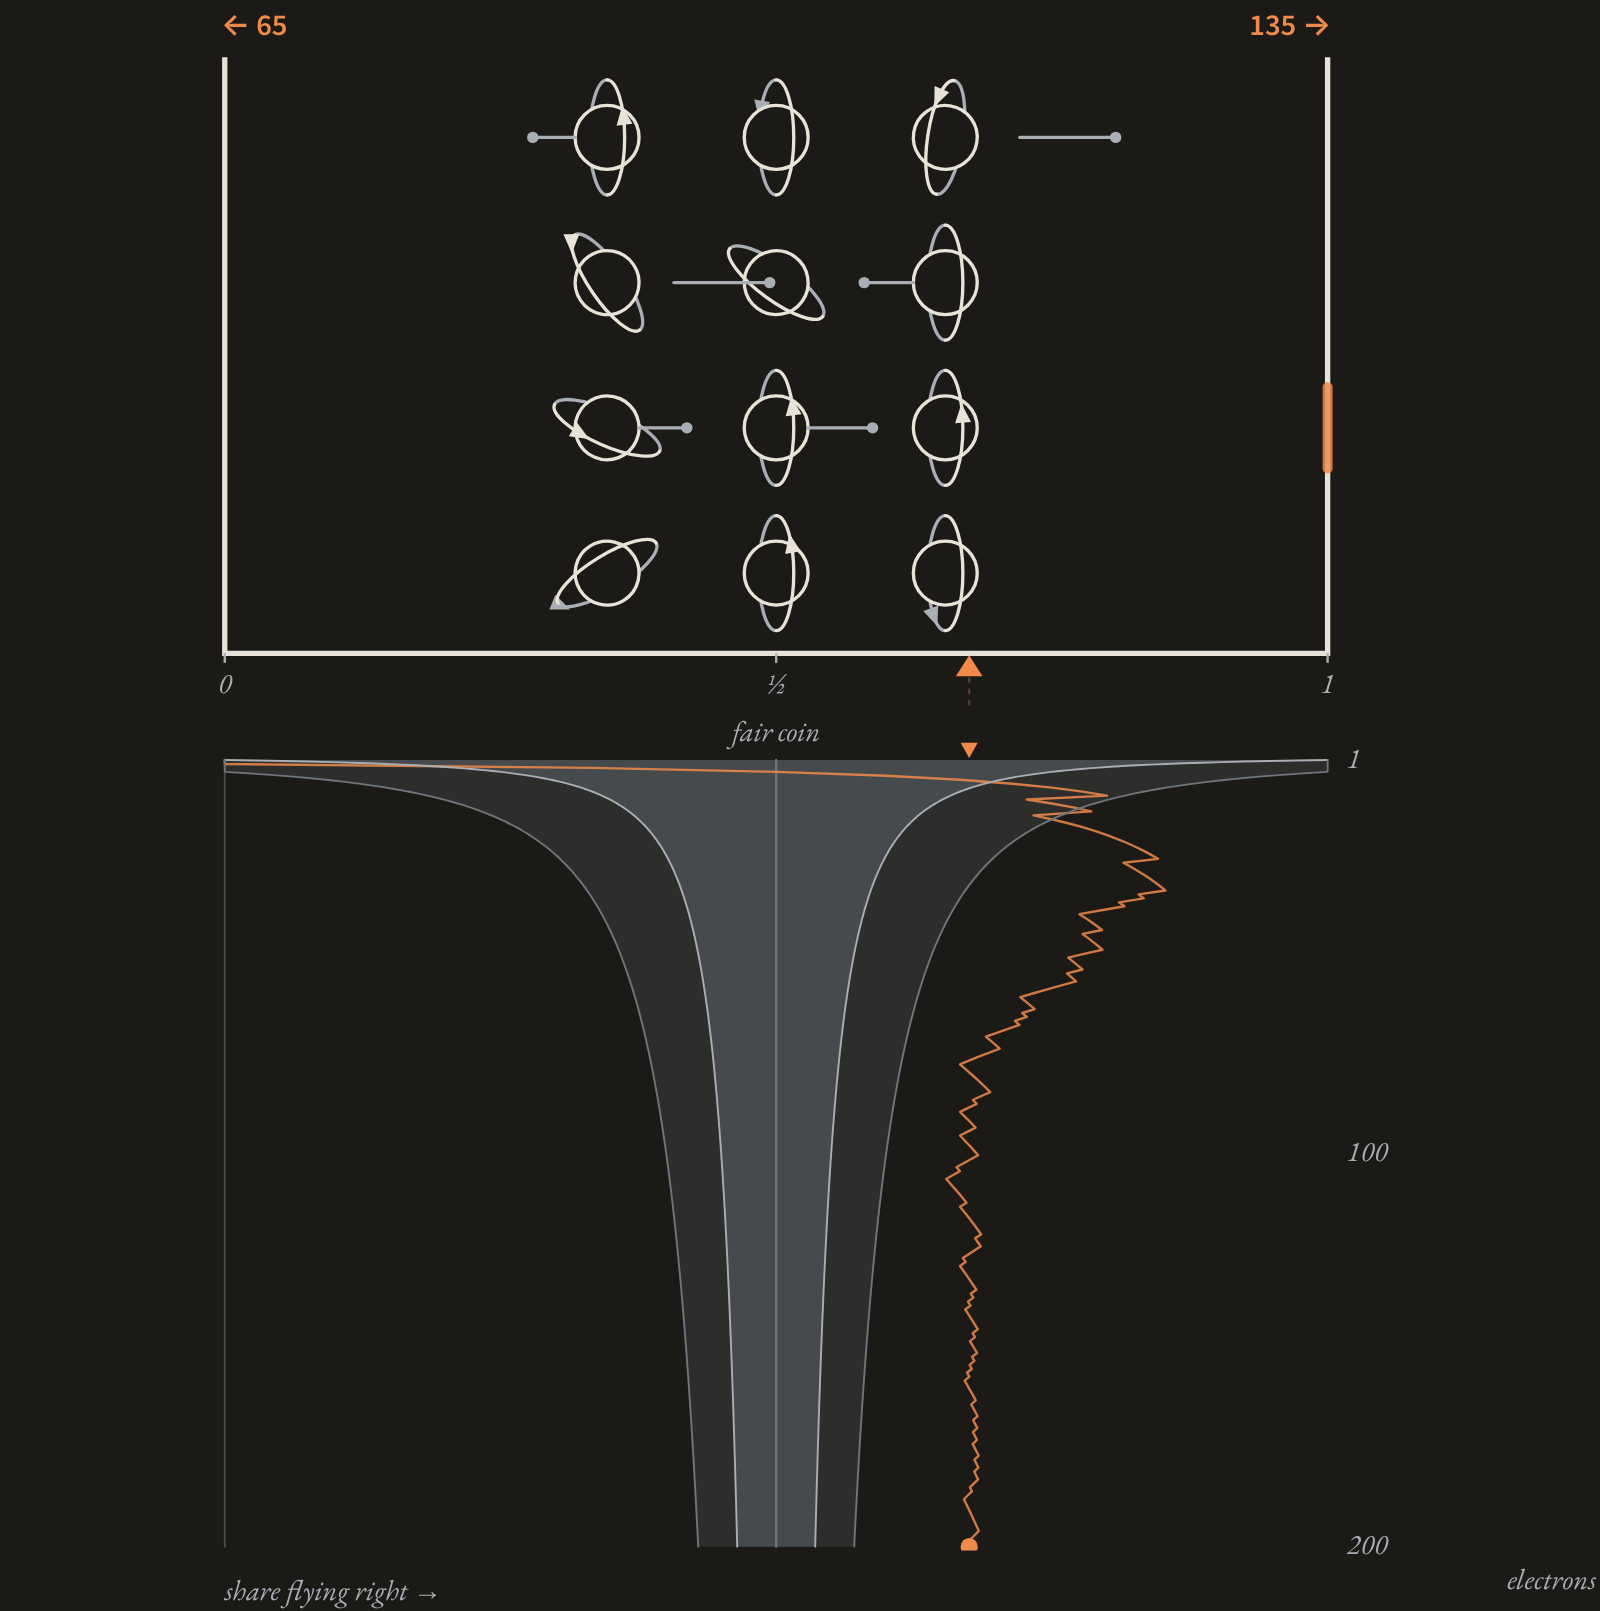
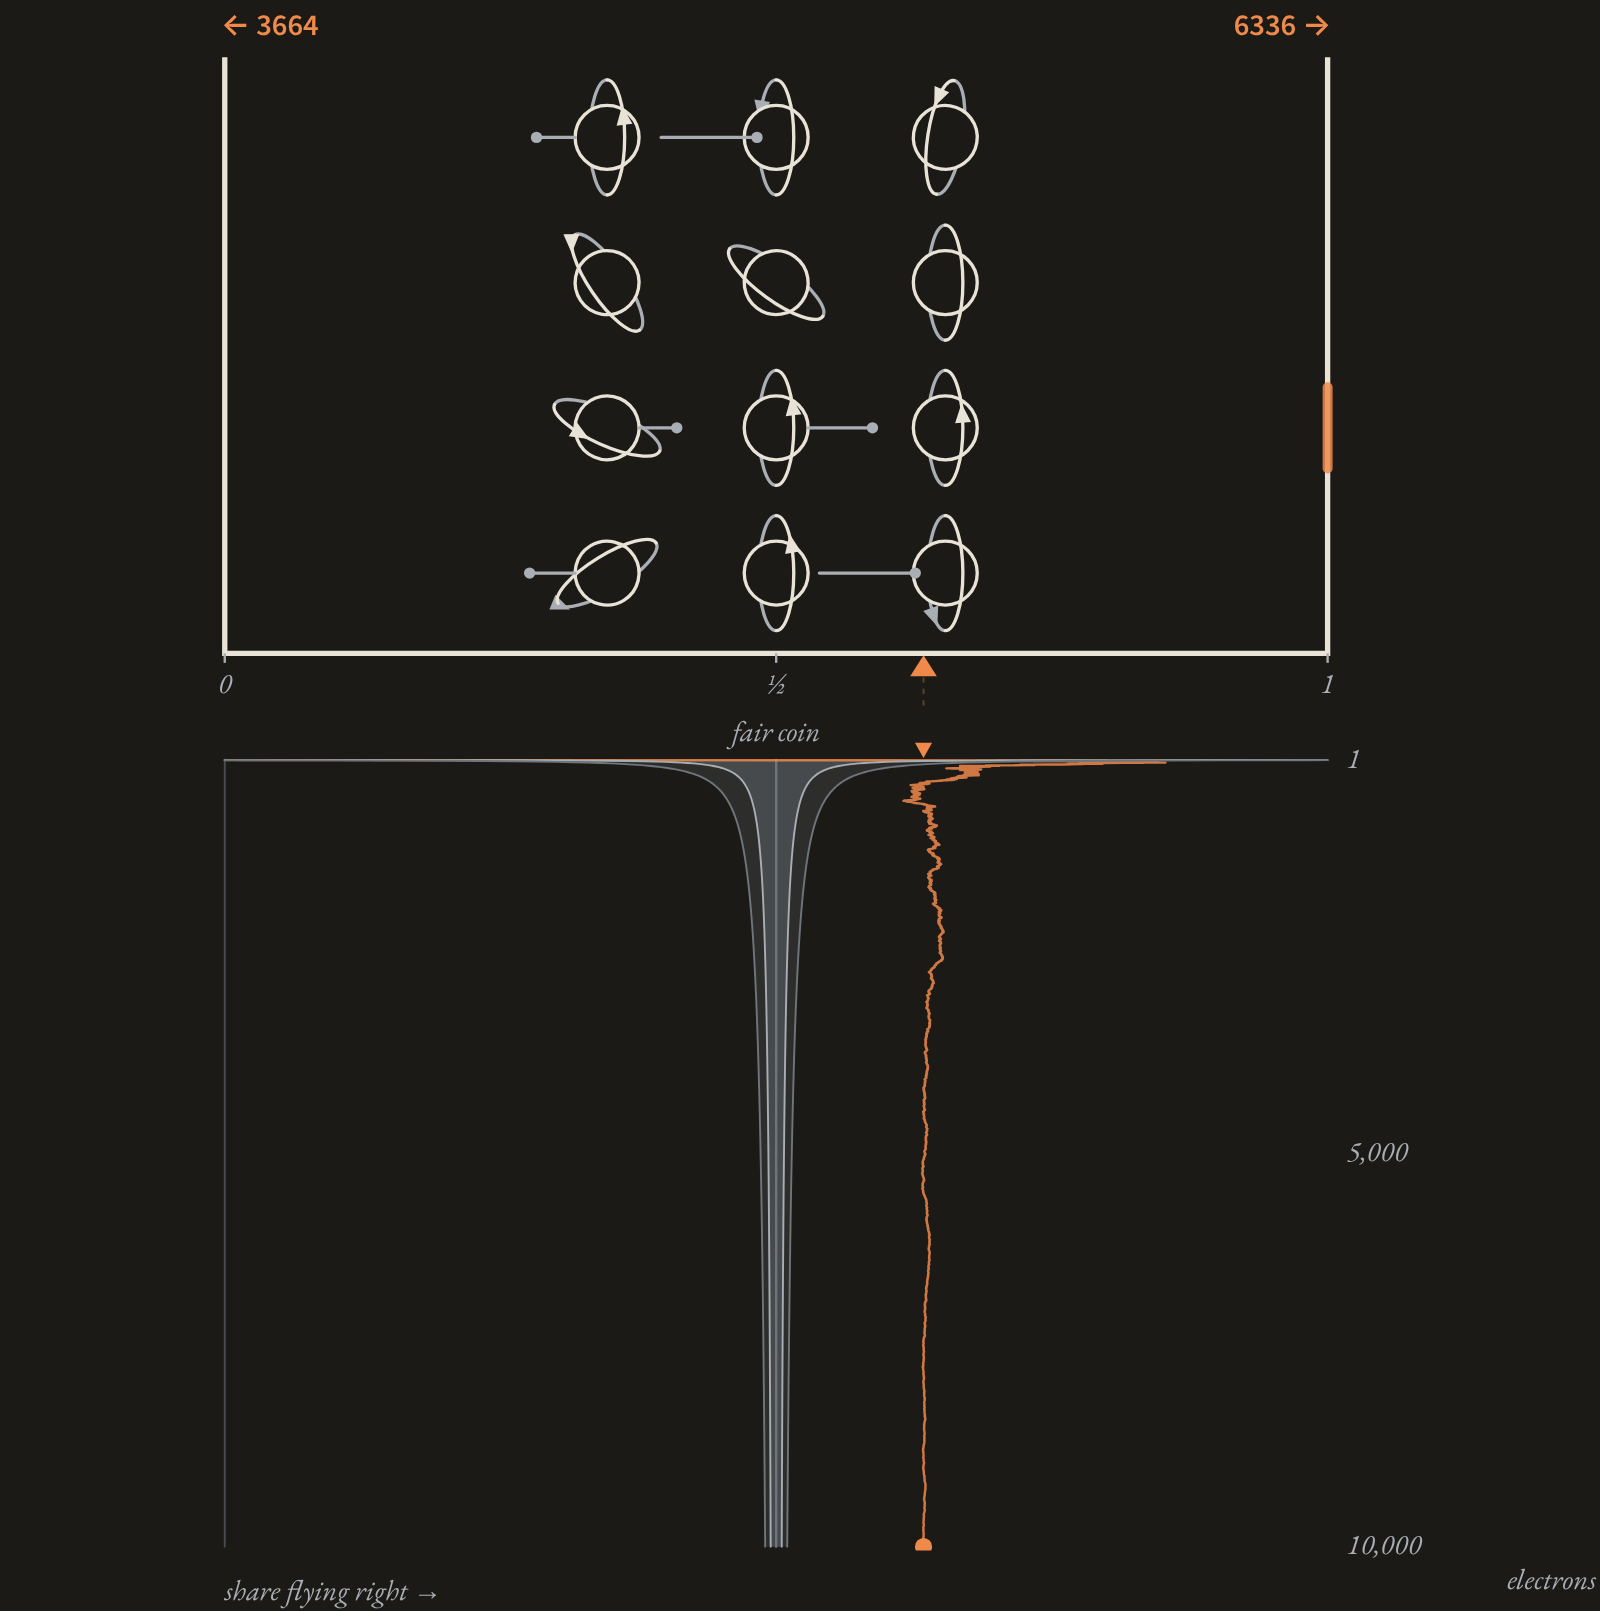
Wu's cobalt, round 4: 10,000 electrons per Run; failed runs as the control; §8 prose
Dan, 2026-11-25. Run counts 10,000 in ~8 s (a few drawn), so a lined-up run
ends far outside the fair coin's bands; warm or jumbled runs stay inside, and
the status says why (Wu: the asymmetry faded as the crystal warmed). Run waits
for the magnet; a drag on the slider takes over mid warm-up (before, it was
ignored, and the reader could run a warm crystal without knowing).
§8 prose (Dan allowed edits): the top seen from 'one end / the other end' and a
mirror parallel to its axis; a margin note on how hard the experiment was;
'Days later' -> 'At the same time' (both papers 15 Feb 1957); the field
reversal; Nobel note 'just over a year'; closing line leads into §9.

Claude-Session: https://claude.ai/code/session_01KXhEcQAuKZgS7s6hqtfv8y

diff --git a/widgets/wu-cobalt/wu-cobalt.js b/widgets/wu-cobalt/wu-cobalt.js
@@ -23,12 +23,13 @@ const FLASH = 0.3;       // s: a plate's flash
 const PULSE = 0.45;      // s: a pulse's trip from the plate to the pointer
 const SPIN = 2.2;        // rad/s: how fast the arrowheads ride round the rings
 const SAY_EVERY = 3;     // s: how often screen readers hear the counts
-const ZOOM = [10, 50, 200];
+const ZOOM = [10, 100, 1000, 10000];
+const POINTS = 600;      // the record keeps every count up to this, then thins to about this many points
 const KEEP = 3;          // earlier records kept, faint
 
 class WuCobalt extends ULWidget {
   // status messages (at most 80 characters each; tests/widgets/strings.test.mjs)
-  static status = ['start', 'warm', 'cooler', 'quick', 'lining', 'tap', 'keep', 'running', 'lean', 'reversed', 'crossed', 'runN', 'even', 'warming'];
+  static status = ['start', 'warm', 'cooler', 'quick', 'lining', 'wait', 'tap', 'keep', 'running', 'lean', 'reversed', 'crossed', 'runN', 'even', 'warmRun', 'cut', 'warming'];
   static buttons = ['magnet', 'reverse', 'run', 'reset'];
   static strings = { en: {
     invite: 'Cool the crystal. Line up the nuclei. Catch the electrons.',
@@ -42,12 +43,15 @@ class WuCobalt extends ULWidget {
     lining: 'The magnet pulls, and the nuclei swing round…',
     tap: 'Most of the nuclei now spin the same way. Catch electrons, or press Run.',
     keep: 'Each catch lights a plate and nudges the pointer. Keep going, or Run.',
-    running: 'The detector counts every electron. Each hit nudges the pointer.',
+    running: 'The detector counts thousands of electrons; only a few are drawn.',
     lean: 'More fly away from the spin than a fair coin allows.',
     reversed: 'Magnet reversed: the spins turn round. Which way will the lean go now?',
     crossed: 'The lean crossed over with the spins: away from the spin, as before.',
     runN: 'A new run, the same shape. Each decay is random; the lean is lawful.',
     even: 'Inside the fair-coin range: nothing picks out an end.',
+    warmRun: 'Warm: the nuclei point every which way, and it comes out like a fair coin.',
+    wait: 'Wait for the magnet: the nuclei are still swinging round.',
+    cut: 'The cold ran out mid-run. Cool it again, and run again.',
     warming: 'Warming up. The nuclei scatter. Cool it again to keep counting.',
     magnet: 'Magnet', reverse: 'Reverse', run: 'Run', reset: 'Reset',
     temp: 'Temperature', cold: '{s} s of cold', counts: 'Left {left}, right {right}.',
@@ -61,7 +65,7 @@ class WuCobalt extends ULWidget {
     this.top = createStage(frag, { aspect: '9 / 4', phoneAspect: '3 / 2', label: `${this.t('label')} ${this.t('keys')}`, focusable: true });
     this.bottom = createStage(frag, { aspect: '16 / 9', phoneAspect: '16 / 10', label: '' });
     this.temp = slider({ label: this.t('temp'), min: 0, max: 100, step: 1, value: 0, format: (v) => fmtK(tempAt(v)),
-      onInput: (v) => { if (!this.warming) { this.T = tempAt(v); this.go(); } } });
+      onInput: (v) => { this.warming = false; this.coldFor = 0; this.T = tempAt(v); this.go(); } });   // the reader's drag takes over, even mid warm-up
     this.tempInput = this.temp.querySelector('input'); this.tempOut = this.temp.querySelector('output');
     this.status = new StatusLine({ gap: 0, hold: 0 });
     this.status.reserve(this.constructor.status.map((k) => this.t(k)));
@@ -98,7 +102,7 @@ class WuCobalt extends ULWidget {
     this.wasCold = cold;
     if (cold && !this.warming) {
       this.coldFor += dt;
-      if (this.coldFor >= PARAMS.coldSeconds) { this.warming = true; this.serial++; this.running = false; }
+      if (this.coldFor >= PARAMS.coldSeconds) { this.warming = true; this.serial++; if (this.running) this.rec.cut = true; this.running = false; this.pending = false; }
     }
     if (this.warming) {
       this.T = warmStep(this.T, dt); this.setSlider(sliderFor(this.T));
@@ -114,14 +118,19 @@ class WuCobalt extends ULWidget {
       n.wob = ou(n.wob, jig * 1.6, dt, this.random); n.jx = ou(n.jx, jig, dt, this.random); n.jy = ou(n.jy, jig, dt, this.random);
       n.phase -= SPIN * dt;
     }
-    // electrons: emitted, flown, counted when they reach a plate (if caught, or while running)
-    if (this.random() < dt * (this.running ? PARAMS.detectorRate : PARAMS.handRate)) this.emit();
+    // electrons: drawn ones are emitted and flown; by hand they count when caught and they reach a
+    // plate. During a Run the detector counts thousands; only a few of them are drawn.
+    if (this.random() < dt * (this.running ? PARAMS.drawnRate : PARAMS.handRate)) this.emit();
+    if (this.running && !this.warming) {
+      this.owed += dt * PARAMS.detectorRate;
+      for (; this.owed >= 1 && this.rec.n < PARAMS.runCount; this.owed--) this.countOne(this.electronDir(this.nuclei[Math.floor(this.random() * this.nuclei.length)]));
+    }
     const speed = this.L.sky / (this.running ? PARAMS.flightDetector : PARAMS.flightHand);
     for (const s of this.shots) s.l += dt * speed;
     this.shots = this.shots.filter((s) => {
       const hx = s.x + s.d * s.l, plate = s.d > 0 ? this.L.x1 : this.L.x0;
       if ((hx - plate) * s.d < 0) return true;
-      if ((s.mine || this.running) && !this.warming) this.arrive(s);
+      if (!this.warming && (s.mine || this.running)) this.arrive(s);
       return false;
     });
     // flashes, pops, pulses; the pointer follows the pulses
@@ -130,6 +139,7 @@ class WuCobalt extends ULWidget {
     this.pulses = this.pulses.filter((p) => { p.t += dt; if (p.t >= PULSE) { this.ptrTarget = p.share; return false; } return true; });
     if (this.ptrTarget != null) this.ptr = this.ptr == null ? this.ptrTarget : this.ptr + (this.ptrTarget - this.ptr) * Math.min(1, dt * 8);
     if (this.running && this.rec.n >= PARAMS.runCount) this.running = false;
+    if (this.pending && this.aligned) this.startRun();
     this.zoom.step(dt);
     if (this.time - this.saidAt > SAY_EVERY && this.rec.n !== this.saidN) this.speakCounts();
     this.say(); this.draw();
@@ -138,7 +148,7 @@ class WuCobalt extends ULWidget {
   // ----- actions
   reset() {
     this.T = tempAt(0); this.time = 0; this.coldFor = 0; this.warming = false; this.wasCold = false;
-    this.align = 0; this.serial = 0; this.field = 0; this.running = false;
+    this.align = 0; this.serial = 0; this.field = 0; this.running = false; this.owed = 0; this.pending = false;
     this.shots = []; this.pops = []; this.flashes = []; this.pulses = [];
     this.old = []; this.leans = []; this.rec = null; this.rec = this.newRecord(null); this.ptr = null; this.ptrTarget = null;
     this.saidAt = 0; this.saidN = 0; this.bandAt = null; this.reversedAt = null;
@@ -158,7 +168,10 @@ class WuCobalt extends ULWidget {
     else { this.field = -this.field; this.reversedAt = this.time; }
     this.go();
   }
-  startRun() { this.running = true; this.rec = this.newRecord(this.setup()); this.go(); }
+  startRun() {
+    if (isCold(this.T) && this.field !== 0 && !this.aligned && !this.warming) { this.pending = true; return this.go(); }   // wait for the magnet
+    this.pending = false; this.running = true; this.owed = 0; this.rec = this.newRecord(this.setup()); this.rec.run = true; this.go();
+  }
   go() { this.play(); this.say(); this.draw(); }
   setSlider(v) {   // move the slider without it calling back (the crystal warming by itself)
     this.tempInput.value = String(v);
@@ -174,22 +187,31 @@ class WuCobalt extends ULWidget {
     return { key, left: 0, right: 0, n: 0, data: [], leaned: false, field: this.aligned ? this.field : 0 };
   }
 
+  electronDir(n) {   // +1 right, -1 left
+    const lined = linedUp(n.rank, this.align) && this.field !== 0;
+    if (!lined) return this.random() < 0.5 ? 1 : -1;
+    return (this.random() < pAwayOne(true) ? 1 : -1) * awaySide(this.field);
+  }
   emit() {
     const n = this.nuclei[Math.floor(this.random() * this.nuclei.length)], p = this.place(n);
-    const lined = linedUp(n.rank, this.align) && this.field !== 0;
-    const away = this.random() < pAwayOne(lined);
-    const d = lined ? (away ? 1 : -1) * awaySide(this.field) : (this.random() < 0.5 ? 1 : -1);
-    this.shots.push({ x: p.x, y: p.y, d, l: this.L.r * 1.3, mine: false });
+    this.shots.push({ x: p.x, y: p.y, d: this.electronDir(n), l: this.L.r * 1.3, mine: false });
   }
-  arrive(s) {   // an electron reaches a plate and is counted
+  countOne(d) {   // one electron counted at the plate on side d; returns the new share
     const key = this.setup();
     if (key !== this.rec.key) this.rec = this.newRecord(key);
     const rec = this.rec;
-    s.d > 0 ? rec.right++ : rec.left++; rec.n++;
+    d > 0 ? rec.right++ : rec.left++; rec.n++;
     const share = rec.right / rec.n;
-    rec.data.push(rec.n, share); this.zoom.need(rec.n);
+    if (rec.n <= POINTS || rec.n % Math.ceil(rec.n / POINTS) === 0) rec.data.push(rec.n, share);
+    this.zoom.need(rec.n);
+    if (this.running) this.ptrTarget = share;   // the detector: the pointer follows the count
+    return share;
+  }
+  arrive(s) {   // a drawn electron reaches its plate: the plate lights up
     this.flashes.push({ side: s.d, y: s.y, t: 0 });
-    this.pulses.push({ side: s.d, y: s.y, t: 0, share });
+    if (this.running) return;   // a Run's drawn electrons are a sample: already counted
+    const share = this.countOne(s.d);
+    this.pulses.push({ side: s.d, y: s.y, t: 0, share });   // a catch: the pulse carries it to the pointer
   }
   catchIt(s) { s.mine = true; this.pops.push({ x: s.x + s.d * s.l, y: s.y, t: 0 }); this.go(); }
   tap(e) {
@@ -211,7 +233,8 @@ class WuCobalt extends ULWidget {
 
   // ----- words
   standing() {
-    if (this.warming) return 'warming';
+    if (this.warming || (this.rec.cut && this.rec.key !== this.setup() && !isCold(this.T))) return this.rec.cut ? 'cut' : 'warming';
+    if (this.pending) return 'wait';
     const rec = this.rec, mine = rec.key === this.setup(), f = rec.field;
     const v = mine && f ? verdict(f > 0 ? rec.left : rec.right, f > 0 ? rec.right : rec.left) : null;   // field +1: spin points left, so 'away' is right
     if (this.aligned) {
@@ -225,7 +248,7 @@ class WuCobalt extends ULWidget {
     }
     const n = mine ? rec.n : 0, u = n >= PARAMS.minCount ? verdict(rec.left, rec.right) : null;
     if (isCold(this.T) && this.field !== 0) return 'lining';
-    if (u === 'even') return 'even';
+    if (u === 'even') return isCold(this.T) ? 'even' : 'warmRun';
     if (isCold(this.T)) return 'quick';
     if (this.tempInput.value === '0' && !this.running) return 'start';
     return this.T > 1 ? 'warm' : 'cooler';

diff --git a/widgets/engines/cobalt.js b/widgets/engines/cobalt.js
@@ -17,10 +17,11 @@ export const PARAMS = {
   maxAlign: 0.6,       // at most ~60% of the nuclei line up
   LEAN: 0.5,           // illustrative: a lined-up nucleus sends 75% of its electrons down
   handRate: 3.5,       // electrons per second while the reader taps
-  detectorRate: 18,    // electrons per second once the detector counts
+  detectorRate: 1250,  // electrons per second the detector counts during a Run
+  drawnRate: 18,       // of those, electrons per second drawn (the rest are counted, not drawn)
   flightHand: 1.4,     // seconds an electron takes to cross the open sky, while the reader taps
   flightDetector: 0.35,// the same, once the detector counts
-  runCount: 200,       // a Run counts this many electrons (or until the crystal warms)
+  runCount: 10000,     // a Run counts this many electrons, about 8 s (or until the crystal warms): as many as The Lawful Coin's coins
   minCount: 40,        // the widget passes no verdict on fewer electrons than this
   sigmas: 2,           // how far from even counts as "more fly down" (in coin-flip standard deviations)
 };

diff --git a/widgets/wu-cobalt/spec.md b/widgets/wu-cobalt/spec.md
@@ -12,17 +12,19 @@
 - **Temperature** slider, log scale, 300 K → 0.003 K. At 0.003 K a 12-second clock starts ("Quick, we can't stay near absolute zero for long!"). When it runs out, the crystal warms by itself (about 4 s), the nuclei scatter, counting stops, and the reader may cool it again.
 - **Magnet**, then **Reverse** (one button; filled once on). Cold plus magnet: 7 of the 12 nuclei (58%, about Wu's 60%) turn so their spins point left; the rest stay every which way. Reverse: the lined-up spins turn round to point right.
 - **Catch electrons.** Electrons fly left or right out of the nuclei, slowly enough to catch (1.4 s across the open space by hand). Tap one to catch it (orange, with a small ring). Keyboard: Enter or Space catches the electron that has flown furthest. A caught electron that reaches its plate **lights the plate** briefly and sends a **pulse** down the plate and along the scale to the **orange pointer**, which slides to the share flying right. Uncaught electrons pass uncounted.
-- **Run**: a detector counts every electron (18 per second) for 200 electrons or until the crystal warms. Each Run starts a new record; earlier records stay, faint (as in The Lawful Coin).
+- **Run**: a detector counts **10,000 electrons in about 8 s** (as many as The Lawful Coin's coins; Dan, 2026-11-25), or until the crystal warms. Only a few are drawn, flying and lighting the plates (the status says so, as the gas chamber's "400 drawn" does); the pointer follows the count. Pulses run only for the reader's own catches. Each Run starts a new record; earlier records stay, faint (as in The Lawful Coin). Pressing Run while the nuclei are still swinging into line waits for the magnet, then starts.
 - Tallies at the plates, in the accent: "← 37" and "81 →".
-- **The record** (below, `core/strip.js`, same scale): the share flying right, traced down as electrons are counted (count axis 10 → 50 → 200). The fair coin's bands (1 and 2 standard deviations, from `coins.js`) fade in once a record has 40 electrons; "fair coin" marks the middle.
+- **Failed runs are the control, not a glitch** (Dan, 2026-11-25: "It shows how difficult it is to do an experiment right"). A warm or jumbled run stays inside the fair coin's bands, and the status line says why; a run the warm-up cuts short says so. As in Wu's run, where the lopsidedness faded as the crystal warmed. "Experiments are hard" is told in a margin note beside the widget, not by extra hurdles.
+- Dragging the slider during the warm-up takes over at once (before, the drag was ignored and the reader could unknowingly run a warm crystal).
+- **The record** (below, `core/strip.js`, same scale): the share flying right, traced down as electrons are counted (count axis 10 → 100 → 1,000 → 10,000; the trace keeps every count to 600, then thins). The fair coin's bands (1 and 2 standard deviations, from `coins.js`) fade in once a record has 40 electrons; "fair coin" marks the middle.
 - **A record belongs to one setup**: a new one starts with each Run, and when the setup changes (lined up or not; the magnet's direction; each cold spell).
-- Status line, in order of play: start → warm → cooler → quick → lining → tap → keep / running → **lean** ("More fly away from the spin than a fair coin allows.") → Reverse → reversed ("…Which way will the lean go now?") → **crossed** ("The lean crossed over with the spins: away from the spin, as before.") → another lean the same way → **runN** ("A new run, the same shape. Each decay is random; the lean is lawful.", as in the §5 widgets). Unaligned records of 40+ inside the band: **even**. Warm-up: warming.
+- Status line, in order of play: start → warm → cooler → quick → lining → tap → keep / running → **lean** ("More fly away from the spin than a fair coin allows.") → Reverse → reversed ("…Which way will the lean go now?") → **crossed** ("The lean crossed over with the spins: away from the spin, as before.") → another lean the same way → **runN** ("A new run, the same shape. Each decay is random; the lean is lawful.", as in the §5 widgets). Unaligned records of 40+ inside the band: **even** (cold) or **warmRun** ("Warm: the nuclei point every which way, and it comes out like a fair coin."). Run before alignment: **wait**. Warm-up: warming; after a cut-short run: **cut** ("The cold ran out mid-run. Cool it again, and run again.").
 - Caption: "**Wu's cobalt.** Cool the crystal and line up the nuclei. Catch electrons, or Run: each hit nudges the pointer, and the share settles outside a fair coin's bands." (158 characters)
 
 ## Honesty (each sentence rests on a test)
 - **Real:** 0.003 K; cold held ~15 min (compressed to 12 s); at most ~60% lined up; more electrons opposite the spin, and reversing the field reversed the asymmetry (Wu et al. 1957; SEP fig. 2; NIST SP 958).
 - **Illustrative:** the size of the lean (a lined-up nucleus sends 75% away from its spin), the 0.1 K onset, the time scales.
-- **Verdicts:** "lean" only when away − toward exceeds 2√n with n ≥ 40, in a lined-up record; "even" only when |right − left| ≤ 2√n with n ≥ 40 (inside the outer band ⇔ "even", tested). Disordered: "even" in ≥ 93% of runs; lined up, a Run shows the lean within 10 s in ≥ 95%. A Run of 200 fits one cold spell.
+- **Verdicts:** "lean" only when away − toward exceeds 2√n with n ≥ 40, in a lined-up record; "even" only when |right − left| ≤ 2√n with n ≥ 40 (inside the outer band ⇔ "even", tested). Lined up, a full Run (10,000) ends outside the outer band every time; even a Run cut to 1 s shows the lean in ≥ 99%. Warm or jumbled, a full Run stays inside in ≥ 93% (a fair coin: about 95%). A Run fits one cold spell. Wu et al. (1957): the asymmetry disappeared as the sample warmed, together with the polarization (warm-up about 6 min); Fig. 2 shows the polarizing field up and down.
 
 ## Behaviour
 Starts moving on view; under reduced motion it waits for the reader's first move. The instrument is a tab stop (Enter catches). Counts read to screen readers every 3 s; the record's label carries the count and latest share. Fits one phone screen: about 680–690 px at 360–390 px; buttons in one row.
